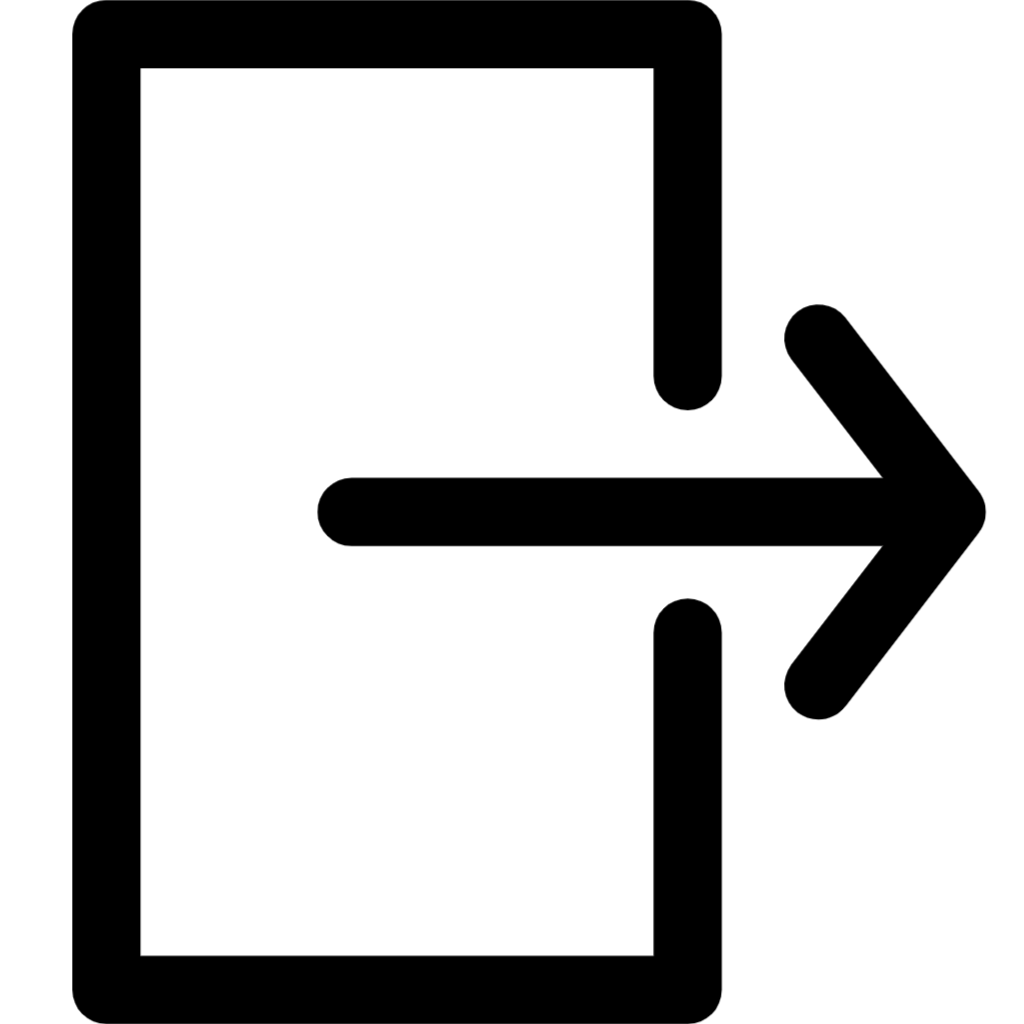
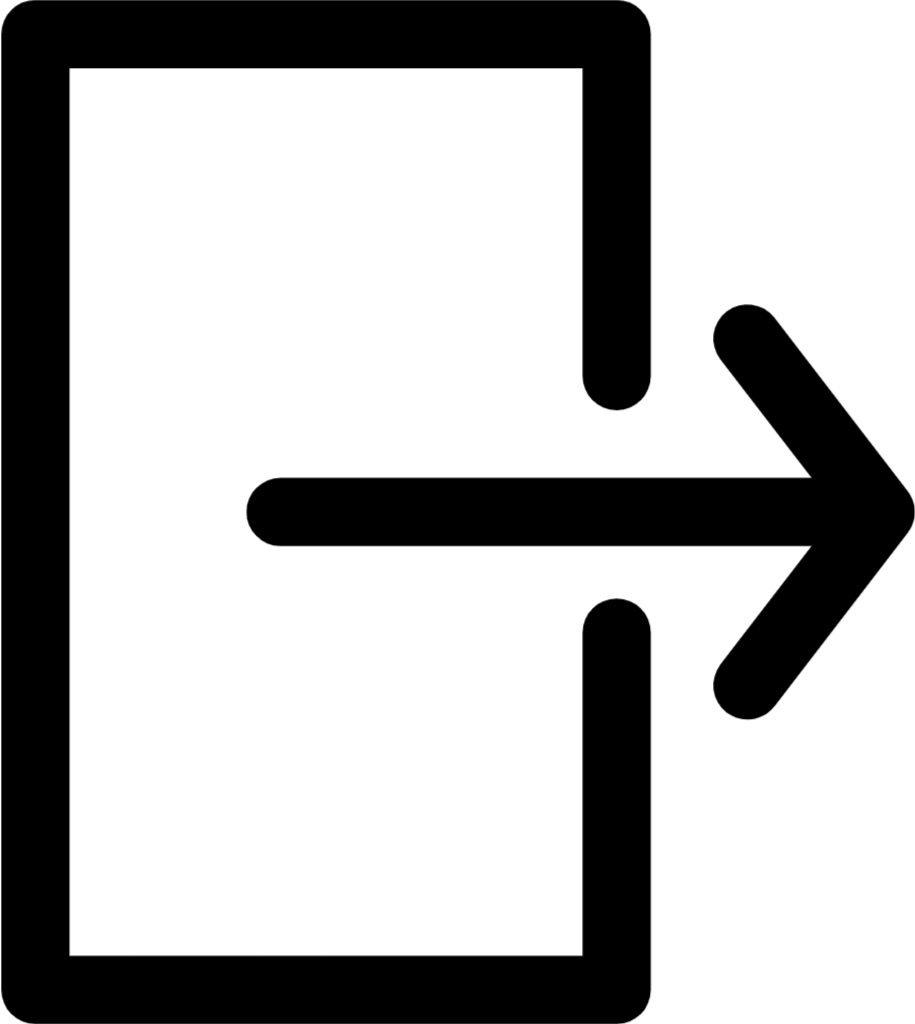
Completed menu page

diff --git a/UI/menu.py b/UI/menu.py
@@ -3,10 +3,14 @@ import tkinter as tk
 
 
 class Menu:
-    def __init__(self, parent, use_widget):
+    def __init__(self, parent, root, use_widget, trigger):
 
+        # Store root window to be referenced locally
+        self.root = root
         # Store widget input logic to be referenced locally
         self.use_widget = use_widget
+        # Assign the trigger page as an object to reference it locally
+        self.trigger = trigger
 
         # Create, style, & position the current page as a subheading
         self.subheading = tk.Label(
@@ -18,6 +22,81 @@ class Menu:
 
         self.subheading.place(
             relx=0.5,
-            rely=0.02,
+            rely=0.018,
             anchor="center"
         )
+
+        # Create, style, & position the menu frame
+        self.menu_frame = tk.Frame(
+            parent,
+            bg="#ffffe0",
+            width=1350,
+            height=600,
+            relief="solid",
+            borderwidth=1
+        )
+
+        self.menu_frame.place(
+            relx=0.5,
+            rely=0.51,
+            anchor="center"
+        )
+
+        self.menu_frame.grid_propagate(False)
+
+        self.menu_frame.columnconfigure(
+            0,
+            weight=1,
+            uniform="column"
+        )
+
+        self.menu_frame.columnconfigure(
+            1,
+            weight=1,
+            uniform="column"
+        )
+
+        self.menu_frame.rowconfigure(
+            0,
+            weight=1,
+            uniform="row"
+        )
+
+        # Create, style, & position the create game button
+        self.create_game = tk.Button(
+            self.menu_frame,
+            text="Create game",
+            font=("Arial", 24),
+            bg="#ffff80",
+            padx=48,
+            pady=12,
+            command=lambda: self.trigger.load_page("create"),
+            relief="solid",
+            borderwidth=2
+        )
+
+        self.create_game.grid(
+            row=0,
+            column=0
+        )
+
+        # Create, style, & position the play game button
+        self.play_game = tk.Button(
+            self.menu_frame,
+            text="Play game",
+            font=("Arial", 24),
+            bg="#ffff80",
+            padx=48,
+            pady=12,
+            command=lambda: self.trigger.load_page("play"),
+            relief="solid",
+            borderwidth=2
+        )
+
+        self.play_game.grid(
+            row=0,
+            column=1
+        )
+
+        for widget in self.menu_frame.winfo_children():
+            self.use_widget.detect_input(widget)

diff --git a/testing.py b/testing.py
@@ -1,0 +1,24 @@
+# Import tkinter to initialise graphics control
+import tkinter as tk
+# Import the database initialisation file
+from Data.database import create_database
+# Import the class used to load each page
+from Classes.load_page import LoadPage
+# Import the class used to register widget inputs
+from Classes.use_widget import UseWidget
+# Import the class used to load the navbar
+from Classes.create_navbar import NavBar
+
+# Create the database
+create_database()
+# Create the root window with standard FHD resolution and a white background
+root = tk.Tk()
+root.geometry("1920x1080")
+root.configure(bg="#ffffff")
+# Load the menu page
+use_widget = UseWidget()
+load_page = LoadPage(root, use_widget)
+navbar = NavBar(root, use_widget, load_page)
+load_page.load_page("menu")
+# Maintains graphical interface & receives user input with constant event loop
+root.mainloop()

diff --git a/UI/authentication.py b/UI/authentication.py
@@ -169,7 +169,6 @@ class Auth:
             font=("Arial", 24),
             bg="#ffff80",
             padx=48,
-            width=6,
             command=lambda: self.check_error("sign_up"),
             relief="solid",
             borderwidth=2
@@ -187,7 +186,6 @@ class Auth:
             font=("Arial", 24),
             bg="#ffff80",
             padx=48,
-            width=6,
             command=lambda: self.check_error("log_in"),
             relief="solid",
             borderwidth=2
@@ -308,9 +306,7 @@ class Auth:
             command=self.error_frame.destroy,
             relief="solid",
             borderwidth=2,
-            padx=48,
-            pady=12,
-            width=6
+            padx=48
         ).grid(
             column=0,
             row=1

diff --git a/Classes/create_navbar.py b/Classes/create_navbar.py
@@ -110,14 +110,12 @@ class NavBar:
         self.menu_button = tk.Button(
             self.frame,
             text="Tutor Tower",
-            font=("Arial", 24),
+            font=("Arial", 32),
             bg="#ffff80",
             command=lambda: self.trigger.check_exit("menu"),
             relief="solid",
             borderwidth=2,
-            padx=48,
-            pady=12,
-            width=27
+            width=24
         )
 
         # Navbar frame positioning

diff --git a/Classes/use_widget.py b/Classes/use_widget.py
@@ -94,7 +94,10 @@ class UseWidget:
                 try:
                     pad_x = widget.cget("padx")
                     pad_y = widget.cget("pady")
-                    widget.configure(padx=pad_x - 6, pady=pad_y - 6)
+                    widget.configure(
+                        padx=pad_x - 6,
+                        pady=pad_y - 6
+                    )
 
                 except tk.TclError:
                     pass

diff --git a/Classes/load_page.py b/Classes/load_page.py
@@ -125,7 +125,7 @@ class LoadPage:
             Create(self.page_frame, self.use_widget)
 
         elif target_page == "menu":
-            Menu(self.page_frame, self.use_widget)
+            Menu(self.page_frame, self.root, self.use_widget, self)
 
         elif target_page == "play":
             Play(self.page_frame, self.use_widget)
